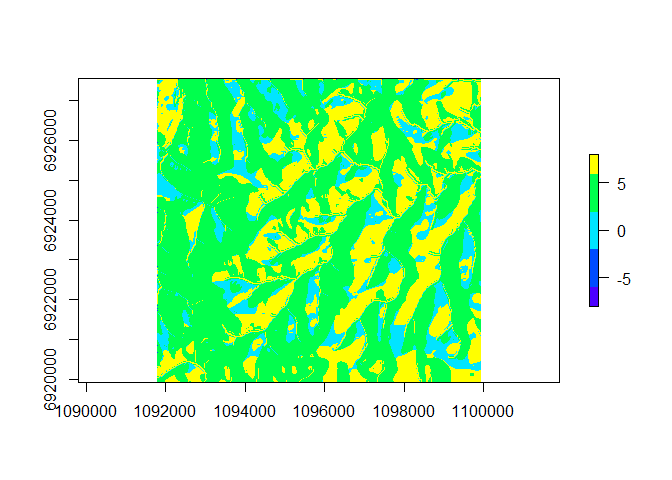
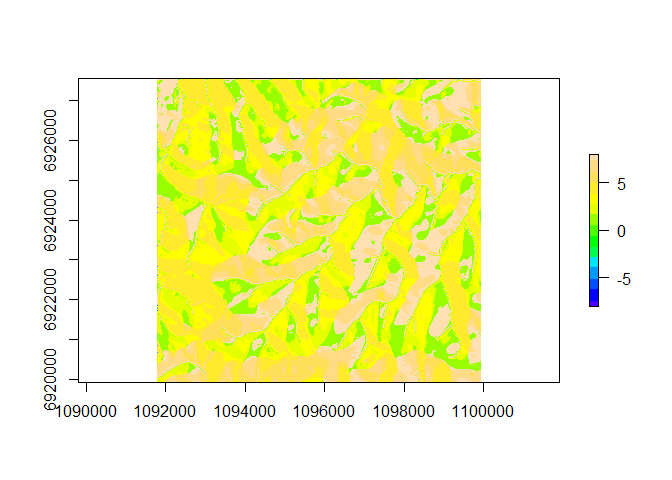
Update docs

diff --git a/README.md b/README.md
@@ -57,8 +57,8 @@ Once the location of the user's GRASS installation is known, the function `initG
 initGRASS(my_grass, mapset = "PERMANENT", override = TRUE)
 ```
 
-    ## gisdbase    C:/Users/apear/AppData/Local/Temp/RtmpOsZhtw 
-    ## location    file4488688f2779 
+    ## gisdbase    C:/Users/apear/AppData/Local/Temp/RtmpAL3T44 
+    ## location    file42844dba5743 
     ## mapset      PERMANENT 
     ## rows        1 
     ## columns     1 
@@ -103,7 +103,7 @@ Note that the function accepts vectors of file paths.
 Sometimes it is also necessary to convert raster formats from float to integer. It happens that the landuse raster used here does not have the correct encoding, so it upsets the `compute_metrics` function. We perform the conversion as follows:
 
 ``` r
-# May need convert certain files to integer format
+# May need to convert certain files to integer format
 convert_to_integer("landuse.tif")
 ```
 
@@ -166,7 +166,7 @@ plot_GRASS("filldem.tif", col = topo.colors(15))
 ![](README_files/figure-markdown_github/unnamed-chunk-14-1.png)
 
 ``` r
-plot_GRASS("flowdir.tif", col = topo.colors(5))
+plot_GRASS("flowdir.tif", col = topo.colors(15))
 ```
 
 ![](README_files/figure-markdown_github/unnamed-chunk-14-2.png)
